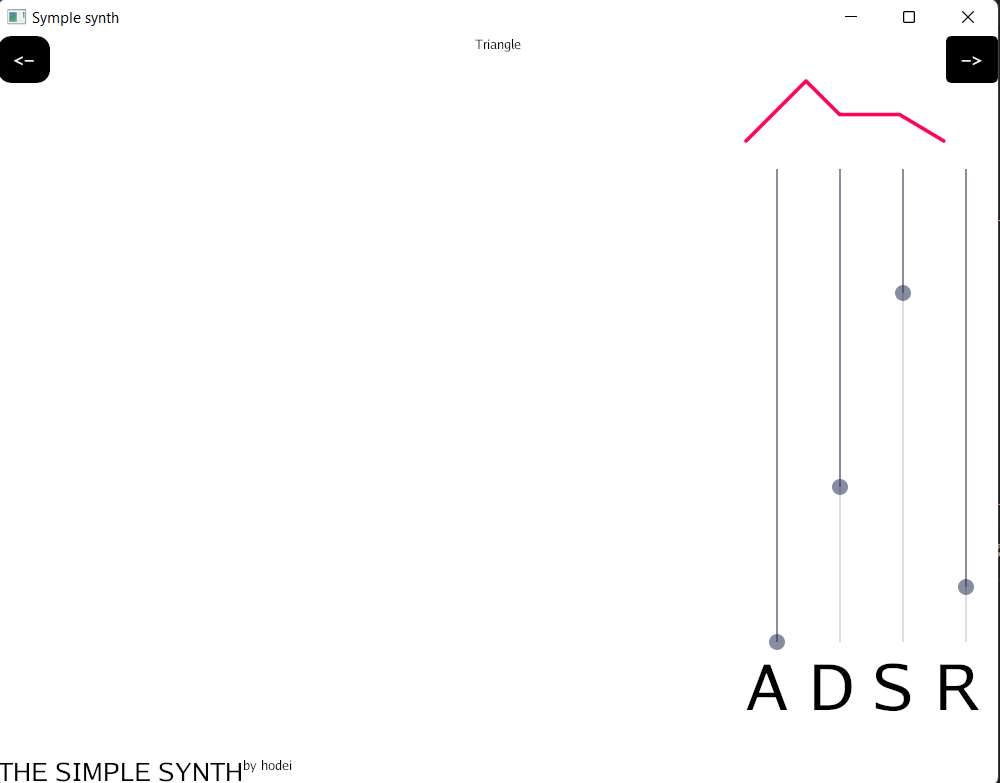
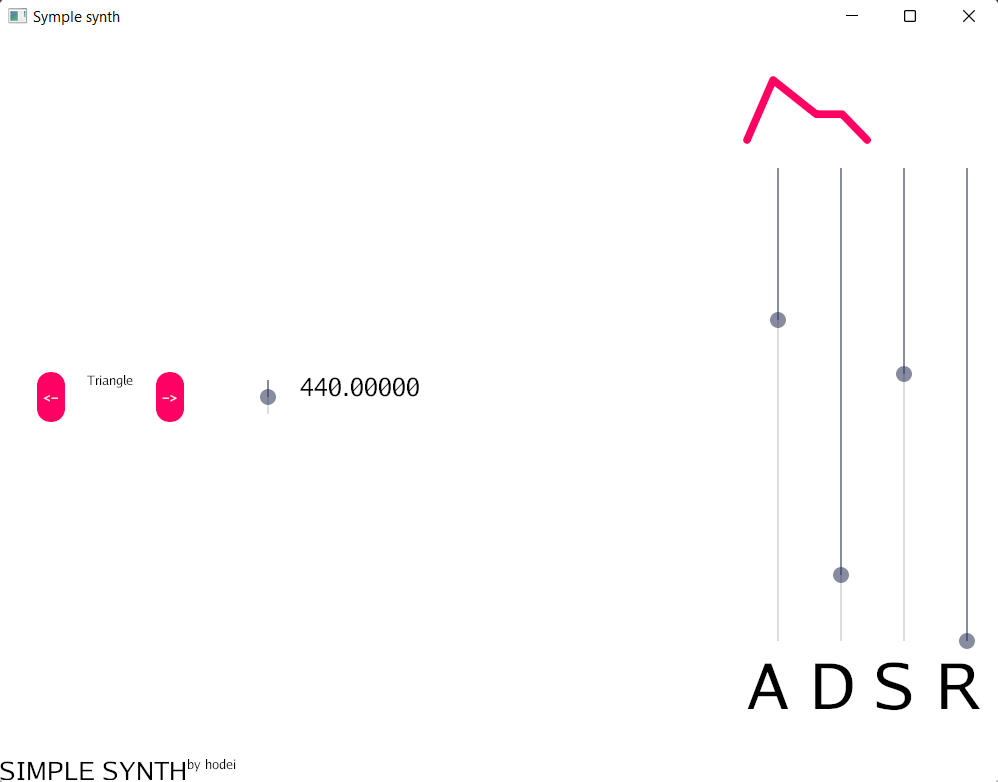
readme updated

diff --git a/README.md b/README.md
@@ -14,7 +14,7 @@ A simple synth made using golang
 <li>Basic configurable polyphony </li>
 </ul>
 <image src="synthPic.png"/>
-<h5>actual project status (a wave selector, and an ADSR envelope)</h5>
+<h5>actual project status (polyphonic, has a wave selector(sine,triangle, saw, square),ADSR envelope, pitch shift)</h5>
 <h1>About</h1>
 <p>Before running: get dependencies, and connect a midi controller</p>
 <p>Dependencies needed in your OS apart from "go get $whatever":</p>
